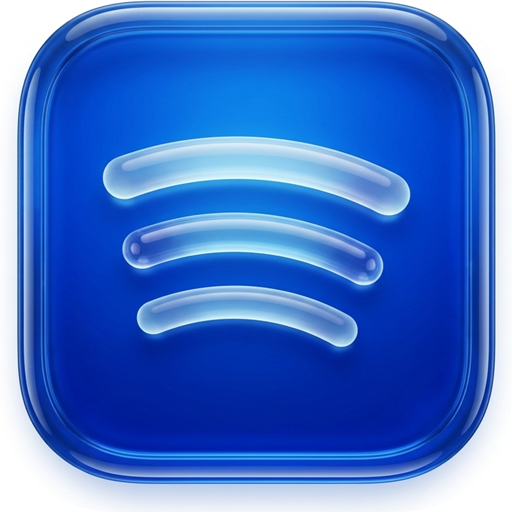
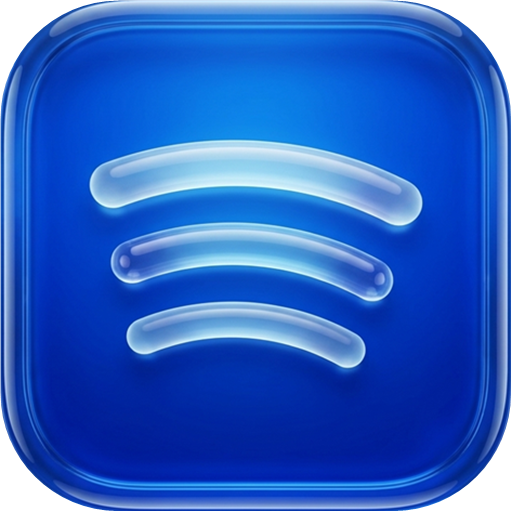
Final Touches

diff --git a/src/components/ui/sangeet-logo.tsx b/src/components/ui/sangeet-logo.tsx
@@ -16,11 +16,11 @@ export function SangeetLogo({
 }: SangeetLogoProps) {
   return (
     <img
-      src="/brand/sangeet-logo.png"
+      src="/brand/sangeet-logo.png?v=2"
       alt={alt}
       draggable={false}
       className={cn(
-        "shrink-0 select-none rounded-[22%] object-cover",
+        "shrink-0 select-none rounded-[23%] object-cover",
         className
       )}
     />
